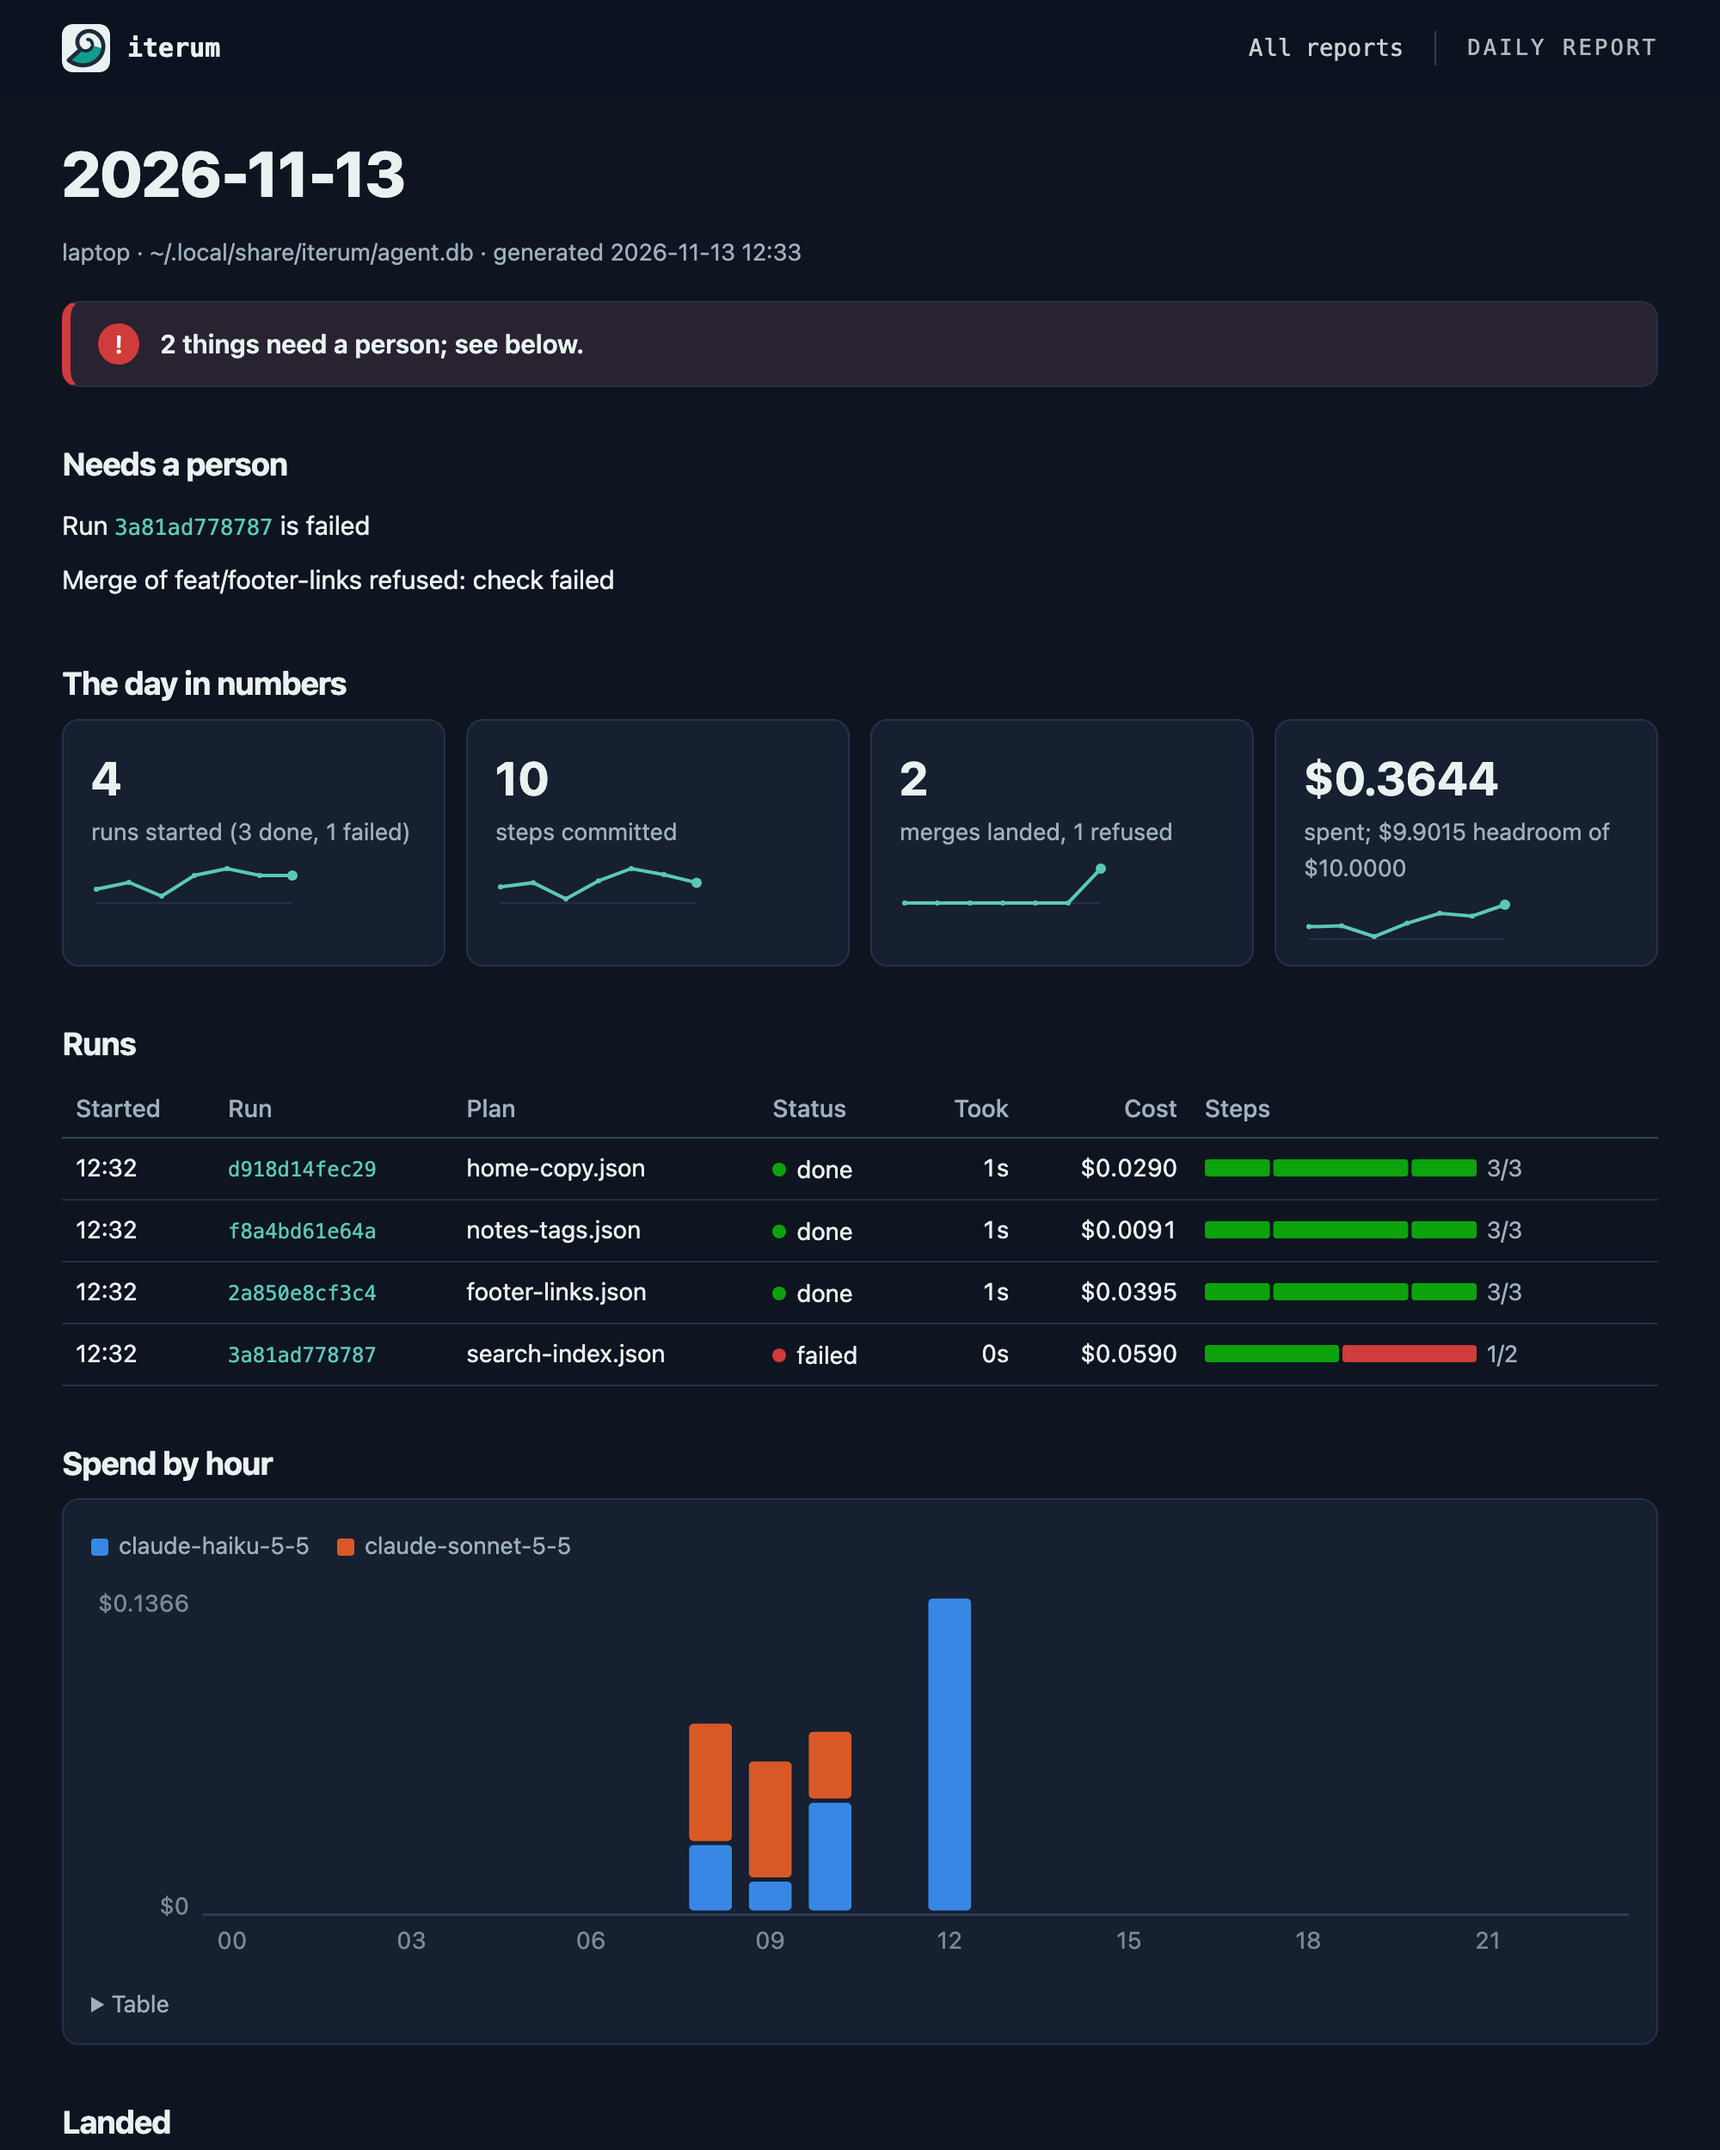
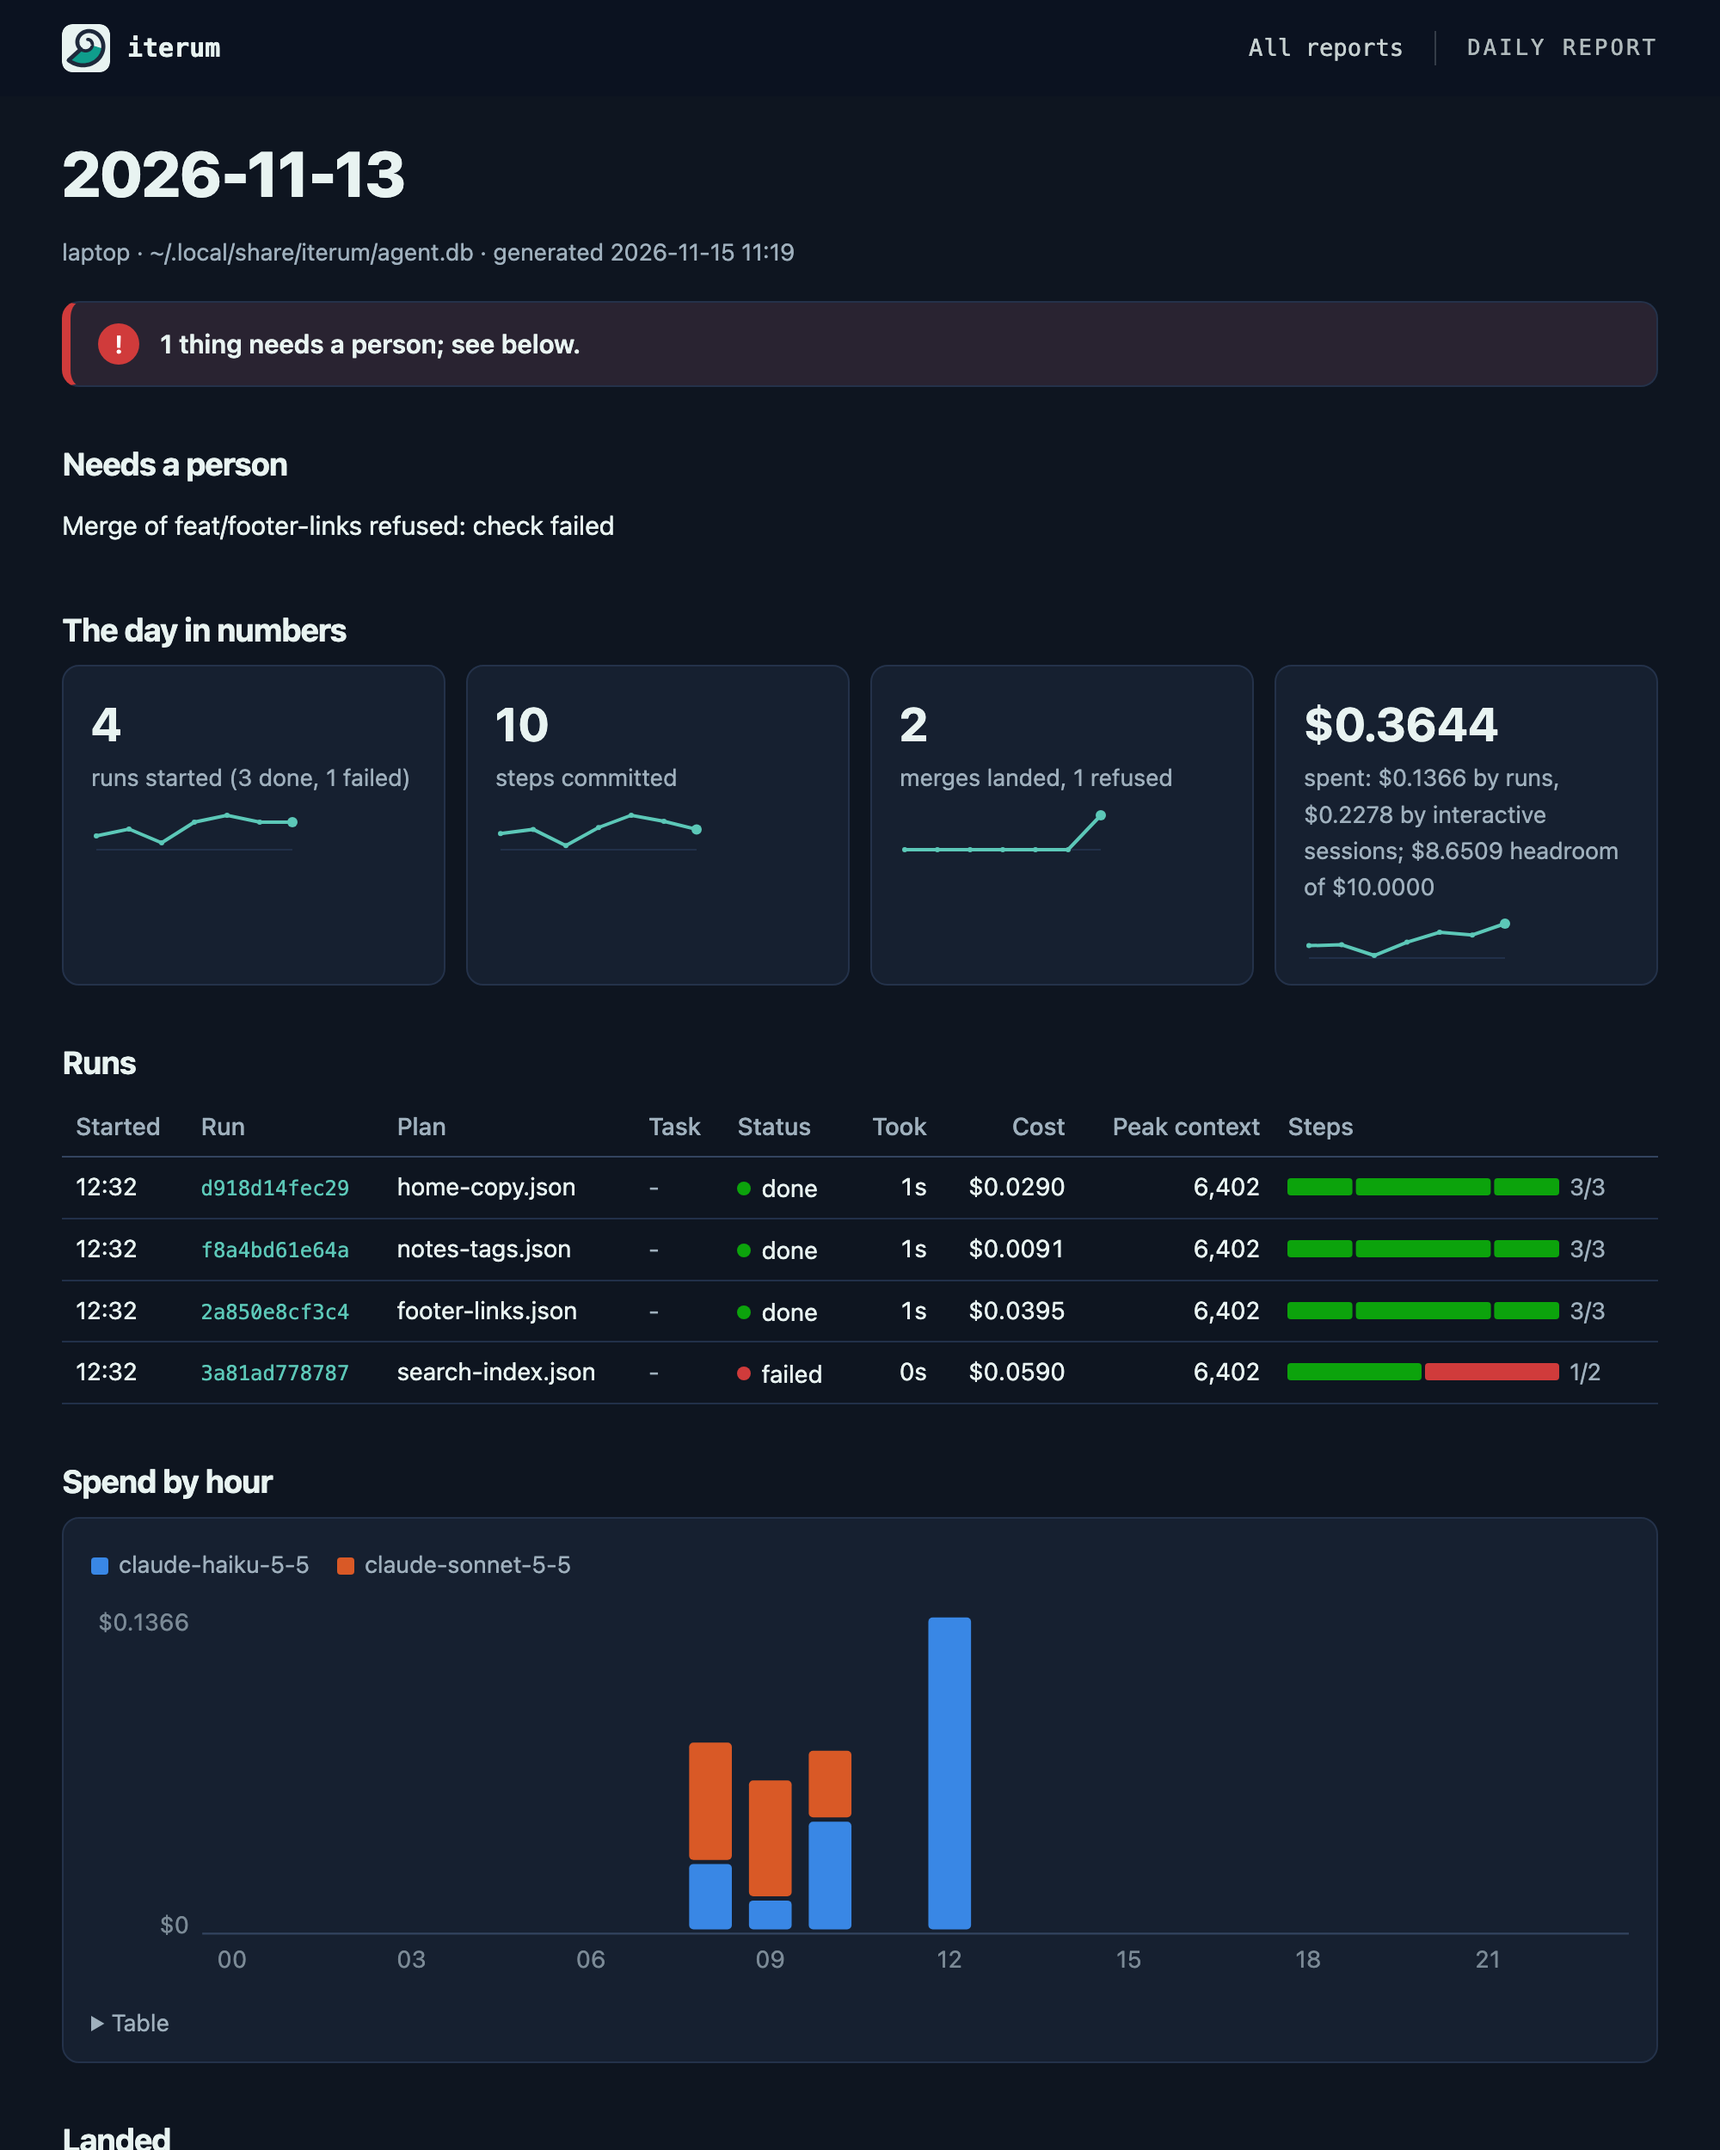
Day report screenshots with the Peak context column; alt text to match

diff --git a/guide.html b/guide.html
@@ -585,7 +585,7 @@ iterum report --serve                   <span class="c"># live, on 127.0.0.1:878
     <p>A day or several-day report also writes a page for each run it lists and rebuilds <code>index.html</code>, so run ids are links and every page links back to the index. A day with no activity writes nothing and says which dates have data. <code>--serve</code> answers only on <code>127.0.0.1</code>, refuses requests for any other host name, and stops with Ctrl-C.</p>
   </div>
   <figure>
-    <div class="fig" style="padding:0;overflow:hidden"><picture><source srcset="img/report-day-dark.png" media="(prefers-color-scheme: dark)"><img src="img/report-day-light.png" alt="A daily report: a banner saying 2 things need a person, the failed run and refused merge listed, four tiles with 7-day trend lines, the runs table with each run's steps, and spend by hour split by model" width="1000" loading="lazy" style="display:block;width:100%;height:auto"></picture></div>
+    <div class="fig" style="padding:0;overflow:hidden"><picture><source srcset="img/report-day-dark.png" media="(prefers-color-scheme: dark)"><img src="img/report-day-light.png" alt="A daily report: a banner saying 1 thing needs a person, the refused merge listed, four tiles with 7-day trend lines, the runs table with each run's cost, peak context and steps, one run failed at its second step, and spend by hour split by model" width="1000" loading="lazy" style="display:block;width:100%;height:auto"></picture></div>
     <figcaption><b>A day.</b> The banner says whether anything needs you; here a run failed at its second step and a merge was refused by its check. Tiles carry the last seven days as a trend. Example data.</figcaption>
   </figure>
   <figure>

diff --git a/index.html b/index.html
@@ -430,7 +430,7 @@ footer img { width: 72px; height: auto; }
       <div class="oneliner reveal" style="margin-top:28px"><span class="p">❯</span> iterum report --open</div>
     </div>
     <div class="reveal">
-      <figure class="shot"><picture><source srcset="img/report-day-dark.png" media="(prefers-color-scheme: dark)"><img src="img/report-day-light.png" alt="A daily Iterum report: a banner saying 2 things need a person, tiles for runs, steps, merges and spend with 7-day trend lines, a table of runs with their steps, and spend by hour by model" width="1000" loading="lazy"></picture></figure>
+      <figure class="shot"><picture><source srcset="img/report-day-dark.png" media="(prefers-color-scheme: dark)"><img src="img/report-day-light.png" alt="A daily Iterum report: a banner saying 1 thing needs a person, tiles for runs, steps, merges and spend with 7-day trend lines, a table of runs with their cost, peak context and steps, and spend by hour by model" width="1000" loading="lazy"></picture></figure>
       <p class="shotcap">Example data. <a href="guide.html#reports">More in the guide</a>.</p>
     </div>
   </div>
